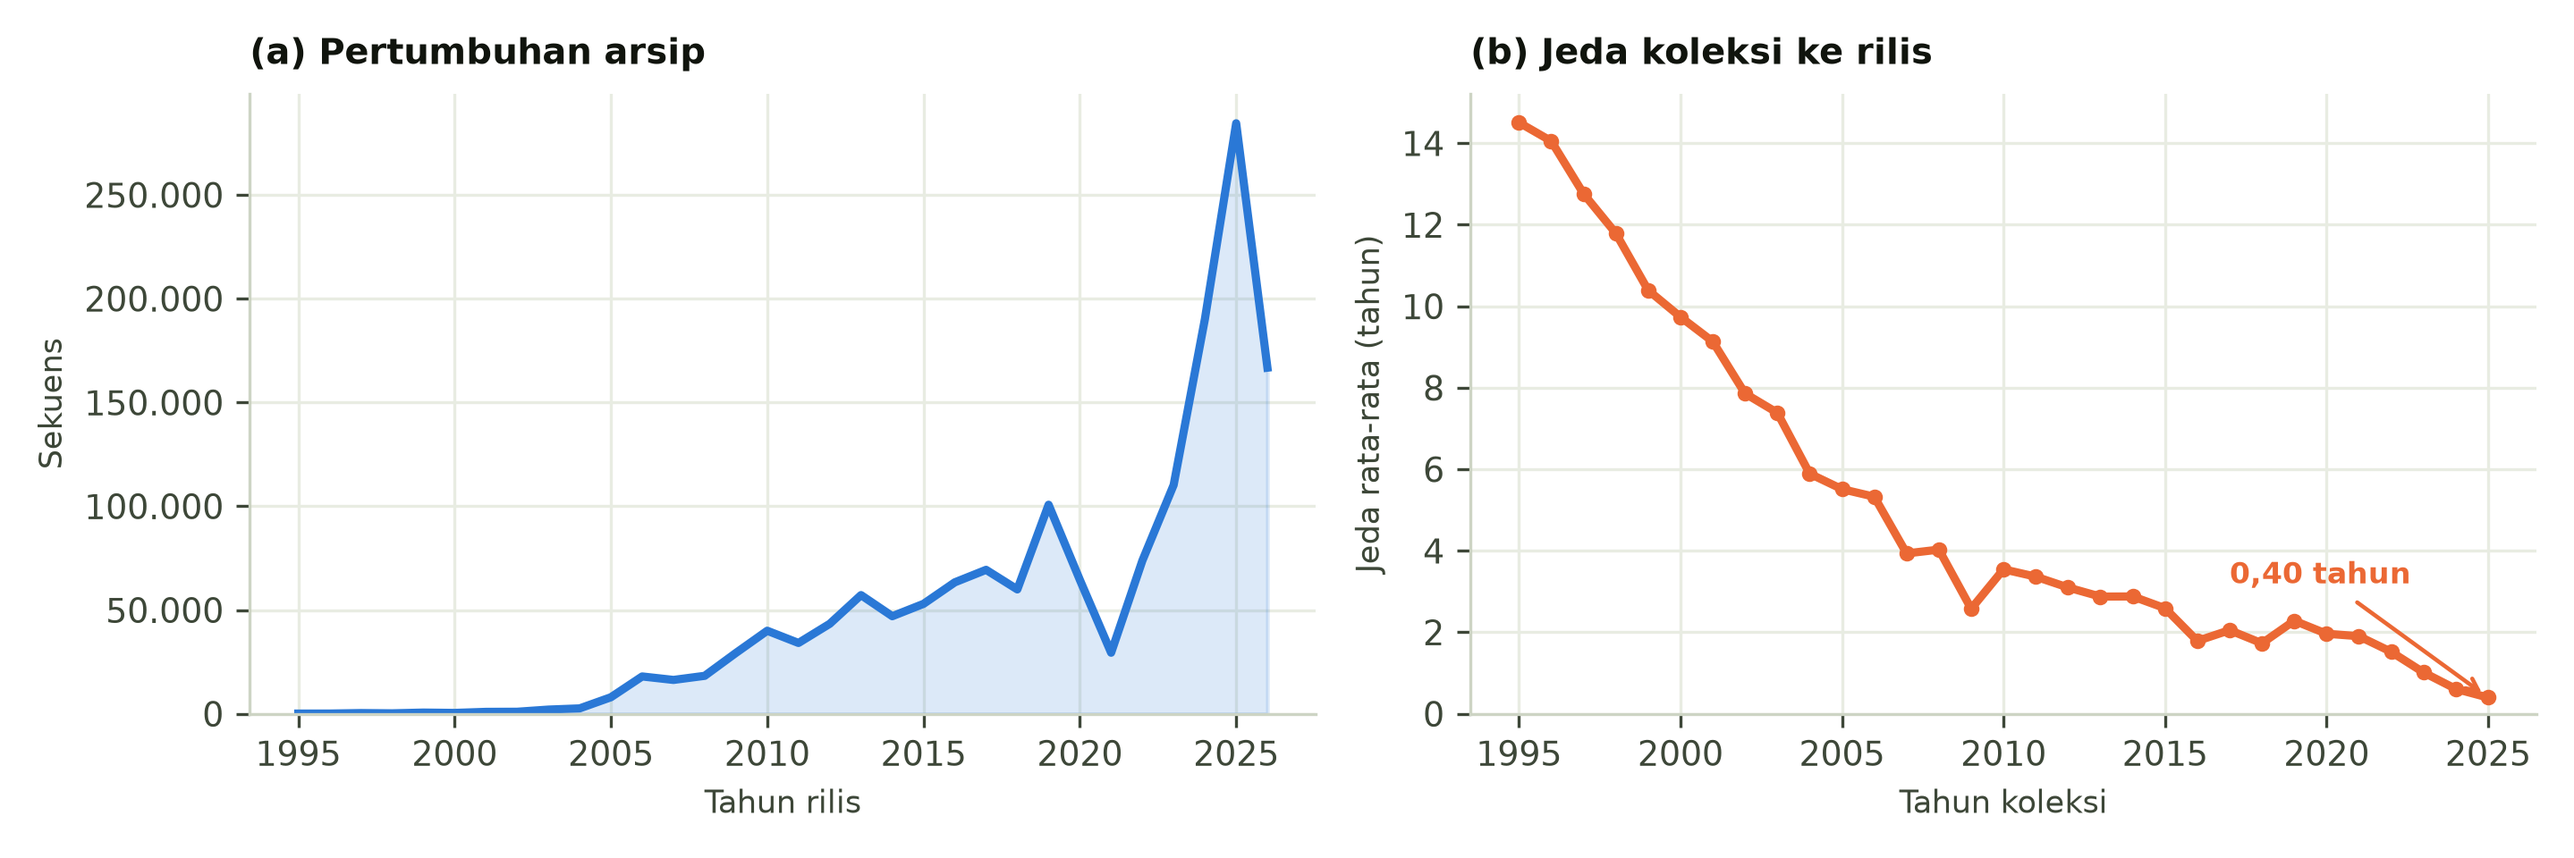
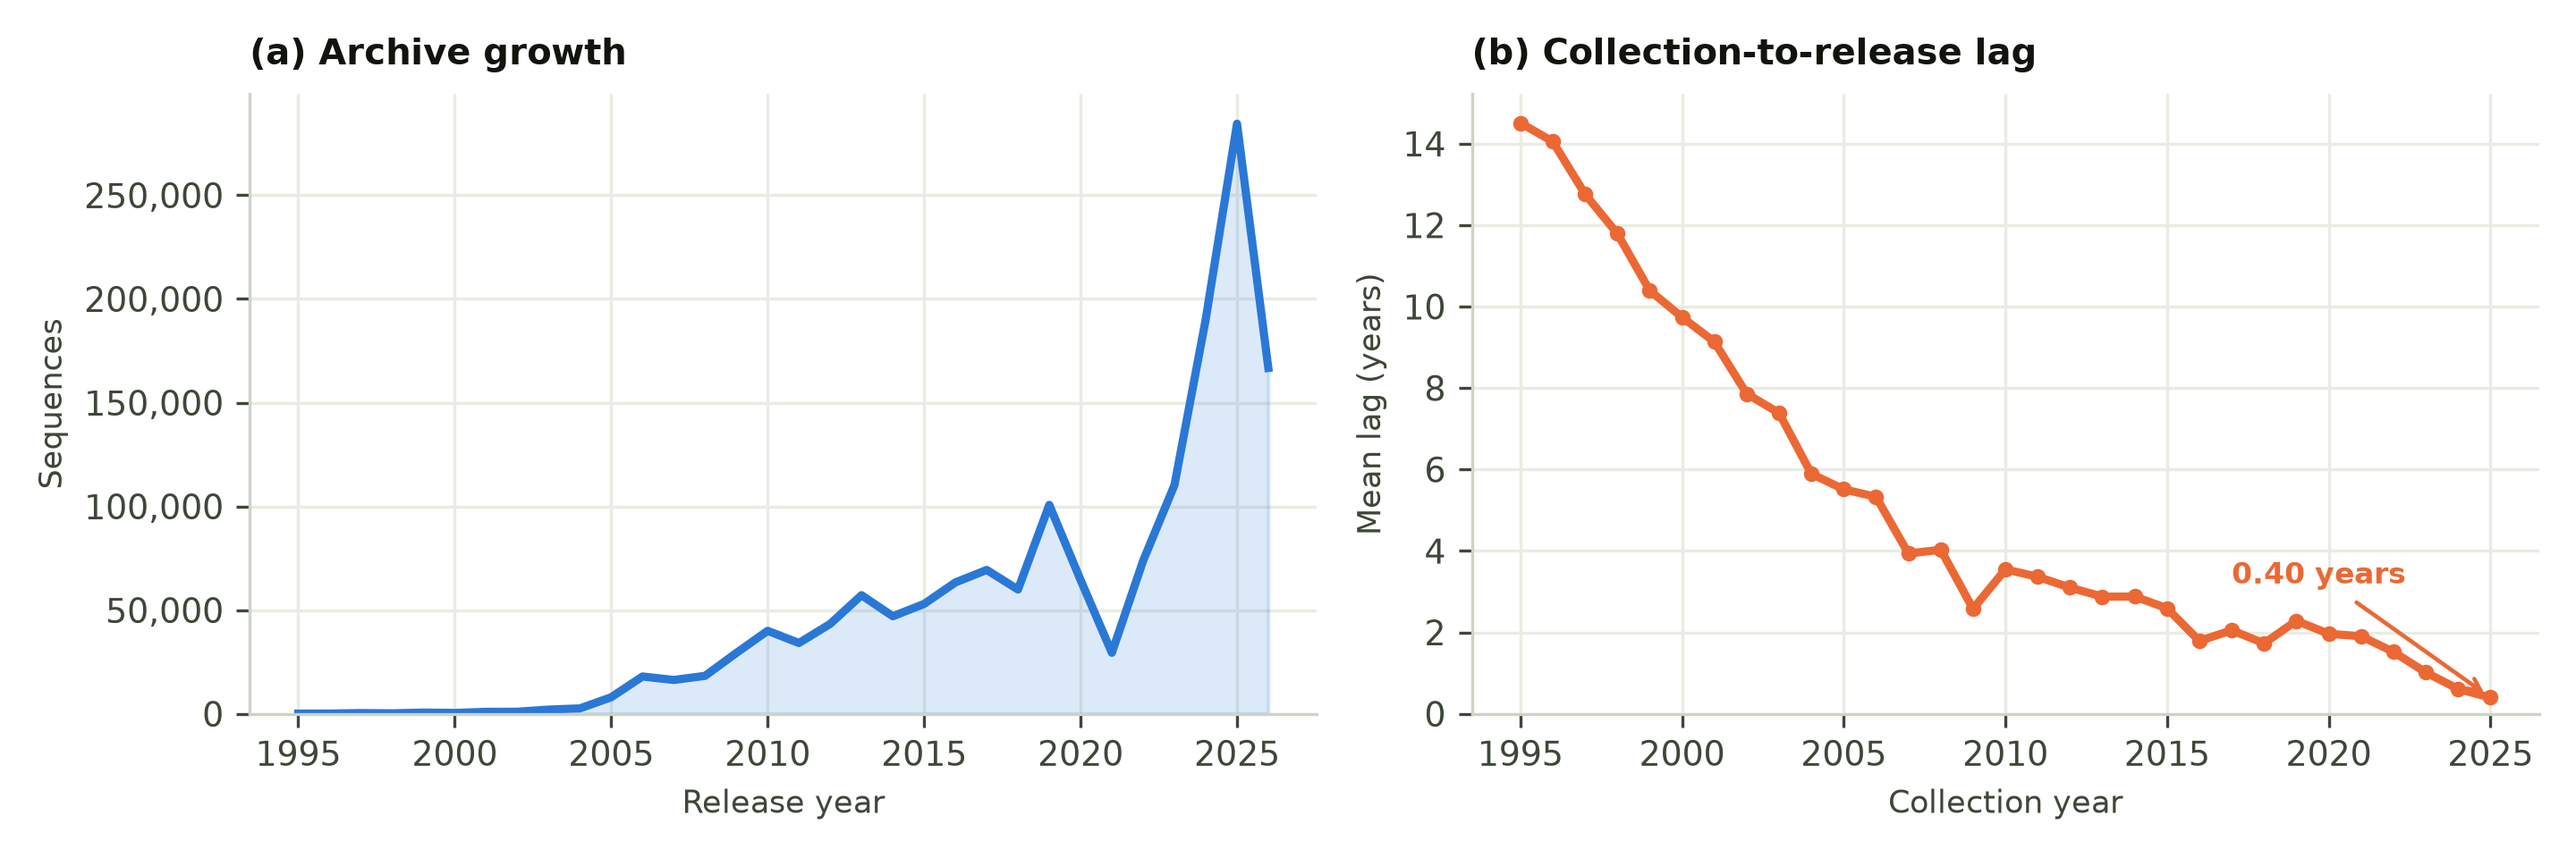
Seluruh teks gambar dialihkan ke bahasa Inggris
Label, judul panel, legenda, dan anotasi pada keenam gambar kini berbahasa
Inggris, termasuk format angka: pemisah ribuan koma dan desimal titik. Simbol
tipografi yang benar dipakai, yaitu tanda lebih besar sama dengan, tidak sama
dengan, panah, dan tanda kali.

Paragraf naskah tetap berbahasa Indonesia; hanya gambar, tabel, dan captionnya
yang berbahasa Inggris, sesuai ketentuan jurnal tujuan.

diff --git a/naskah/buat_gambar_hasil.py b/naskah/buat_gambar_hasil.py
@@ -67,7 +67,7 @@ def rapi(ax, xl=None, yl=None, jdl=None):
 
 
 def ribu(v, p=None):
-    return format(int(round(v)), ",").replace(",", ".")
+    return format(int(round(v)), ",")
 
 
 def simpan(fig, nama, ket):
@@ -87,21 +87,21 @@ ax[0].fill_between([a for a, _ in r], [b for _, b in r], color=D1, alpha=.16)
 ax[0].plot([a for a, _ in r], [b for _, b in r], color=D1, linewidth=2.2)
 ax[0].yaxis.set_major_formatter(FuncFormatter(ribu))
 ax[0].set_ylim(bottom=0)
-rapi(ax[0], "Tahun rilis", "Sekuens", "(a) Pertumbuhan arsip")
+rapi(ax[0], "Release year", "Sequences", "(a) Archive growth")
 
 j = [(x["tahun_koleksi"], float(x["rata"])) for x in INS["jeda_per_tahun"]
      if 1995 <= x["tahun_koleksi"] <= 2025]
 ax[1].plot([a for a, _ in j], [b for _, b in j], color=D2, linewidth=2.2,
            marker="o", markersize=3.2)
-ax[1].annotate("0,40 tahun", xy=(2025, j[-1][1]), xytext=(2017, 3.2),
+ax[1].annotate("0.40 years", xy=(2025, j[-1][1]), xytext=(2017, 3.2),
                fontsize=8, color=D2, fontweight="bold",
                arrowprops=dict(arrowstyle="->", color=D2, lw=1.1))
 ax[1].set_ylim(bottom=0)
-rapi(ax[1], "Tahun koleksi", "Jeda rata-rata (tahun)",
-     "(b) Jeda koleksi ke rilis")
+rapi(ax[1], "Collection year", "Mean lag (years)",
+     "(b) Collection-to-release lag")
 fig.tight_layout()
 simpan(fig, "gambar2-arsip.png",
-       "Pertumbuhan arsip dan penyusutan jeda pelaporan")
+       "Archive growth and shrinking reporting lag")
 
 # ── Gambar 3: kinerja klasifikasi ────────────────────────────────────
 tugas, algo = [], []
@@ -130,14 +130,14 @@ for i, a in enumerate(algo):
 for i, a in enumerate(algo):
     for k, t in enumerate(tugas):
         v = ambil(t, a, "f1_makro")
-        ax[0].text(k + (i - 1) * w, v + .02, ("%.4f" % v).replace(".", ","),
+        ax[0].text(k + (i - 1) * w, v + .02, "%.4f" % v,
                    ha="center", fontsize=6.2, color=TINTA_2, rotation=90)
 ax[0].set_xticks(xs)
 ax[0].set_xticklabels([NAMA_T[t] for t in tugas])
 ax[0].set_ylim(0, 1.16)
 ax[0].grid(axis="x", visible=False)
 ax[0].legend(fontsize=7.6, ncol=1, loc="lower left")
-rapi(ax[0], None, "F1 makro", "(a) F1 makro per tugas dan algoritma")
+rapi(ax[0], None, "Macro F1", "(a) Macro F1 by task and algorithm")
 
 for i, a in enumerate(algo):
     ax[1].bar(xs + (i - 1) * w, [ambil(t, a, "log_loss") for t in tugas],
@@ -146,9 +146,9 @@ for k, t in enumerate(tugas):
     acak = ambil(t, algo[0], "log_loss_acak")
     ax[1].plot([k - .45, k + .45], [acak, acak], color=D8, linewidth=1.6,
                linestyle=(0, (4, 2)), zorder=5)
-ax[1].text(-0.42, 2.45, "tebakan acak", fontsize=7.4, color=D8,
+ax[1].text(-0.42, 2.45, "random guess", fontsize=7.4, color=D8,
            fontweight="bold", ha="left", va="bottom")
-ax[1].annotate("Naive Bayes B2\nmelebihi acak", xy=(2 + w, 3.3654),
+ax[1].annotate("Naive Bayes B2\nexceeds random", xy=(2 + w, 3.3654),
                xytext=(1.08, 7.4), fontsize=7.4, color=D8,
                fontweight="bold", ha="center",
                arrowprops=dict(arrowstyle="->", color=D8, lw=1.1,
@@ -158,10 +158,10 @@ ax[1].set_xticklabels([NAMA_T[t] for t in tugas])
 ax[1].set_ylim(0.0008, 14)
 ax[1].set_yscale("log")
 ax[1].grid(axis="x", visible=False)
-rapi(ax[1], None, "Log loss (skala log)", "(b) Log loss terhadap tebakan acak")
+rapi(ax[1], None, "Log loss (log scale)", "(b) Log loss against random guessing")
 fig.tight_layout()
 simpan(fig, "gambar3-klasifikasi.png",
-       "F1 makro dan log loss sembilan model")
+       "Macro F1 and log loss of nine models")
 
 # ── Gambar 4: penskalaan ─────────────────────────────────────────────
 sp = [x for x in SKALA if x["jalur"].startswith("Spark")]
@@ -174,37 +174,37 @@ fig, ax = plt.subplots(1, 2, figsize=(9.6, 3.3))
 ax[0].plot(baris, [float(x["detik"]) for x in sp], marker="o", color=D1,
            linewidth=2.2, label="Spark ML")
 ax[0].plot(sk_b, [float(x["detik"]) for x in sk if x["detik"]], marker="o",
-           color=D2, linewidth=2.2, label="Satu node")
+           color=D2, linewidth=2.2, label="Single node")
 for g in gagal:
     ax[0].plot(g, 18, marker="X", markersize=9, color=D8, zorder=6,
                clip_on=False)
-ax[0].annotate("gagal: Py4JJavaError", xy=(gagal[0], 18),
+ax[0].annotate("failed: Py4JJavaError", xy=(gagal[0], 18),
                xytext=(gagal[0] * .62, 300), fontsize=7.8, color=D8,
                fontweight="bold",
                arrowprops=dict(arrowstyle="->", color=D8, lw=1.1))
 ax[0].set_xscale("log")
 ax[0].set_ylim(bottom=0)
 ax[0].legend(fontsize=8)
-rapi(ax[0], "Baris latih", "Waktu latih (detik)", "(a) Waktu terhadap volume")
+rapi(ax[0], "Training rows", "Training time (s)", "(a) Time against volume")
 
 ax[1].plot(baris, [float(x["throughput_baris_per_detik"]) for x in sp],
            marker="o", color=D1, linewidth=2.2, label="Spark ML")
 ax[1].plot(sk_b, [float(x["throughput_baris_per_detik"]) for x in sk
                   if x["throughput_baris_per_detik"]], marker="o", color=D2,
-           linewidth=2.2, label="Satu node")
-ax[1].annotate("naik 15×", xy=(baris[-1], 1439), xytext=(60000, 1180),
+           linewidth=2.2, label="Single node")
+ax[1].annotate("15× increase", xy=(baris[-1], 1439), xytext=(60000, 1180),
                fontsize=8, color=D1, fontweight="bold",
                arrowprops=dict(arrowstyle="->", color=D1, lw=1.1))
-ax[1].annotate("turun", xy=(sk_b[-1], 169), xytext=(60000, 330),
+ax[1].annotate("decreasing", xy=(sk_b[-1], 169), xytext=(60000, 330),
                fontsize=8, color=D2, fontweight="bold",
                arrowprops=dict(arrowstyle="->", color=D2, lw=1.1))
 ax[1].set_xscale("log")
 ax[1].set_ylim(bottom=0)
 ax[1].yaxis.set_major_formatter(FuncFormatter(ribu))
-rapi(ax[1], "Baris latih", "Baris per detik", "(b) Throughput")
+rapi(ax[1], "Training rows", "Rows per second", "(b) Throughput")
 fig.tight_layout()
 simpan(fig, "gambar4-penskalaan.png",
-       "Waktu latih dan throughput terhadap volume data")
+       "Training time and throughput against data volume")
 
 # ── Gambar 5: struktur graf ──────────────────────────────────────────
 gs = sorted(INS["graf_per_segmen"], key=lambda x: x["segmen"])
@@ -224,11 +224,11 @@ ax[0].set_xticklabels(lab, fontsize=8)
 ax[0].set_ylim(0, max(nilai) * 1.2)
 ax[0].yaxis.set_major_formatter(FuncFormatter(ribu))
 ax[0].grid(axis="x", visible=False)
-ax[0].annotate("HA paling renggang:\nsasaran utama antibodi", xy=(3, 21800),
+ax[0].annotate("HA sparsest:\nprimary antibody target", xy=(3, 21800),
                xytext=(3.05, 40000), fontsize=7.4, color=TINTA,
                fontweight="bold", ha="center",
                arrowprops=dict(arrowstyle="->", color=TINTA, lw=1.1))
-rapi(ax[0], None, "Tepi kemiripan", "(a) Kerapatan graf per segmen")
+rapi(ax[0], None, "Similarity edges", "(a) Graph density by segment")
 
 uk = INS["klaster_ukuran"]
 urut = ["2 - 5", "6 - 20", "21 - 100", "> 100"]
@@ -242,27 +242,27 @@ ax[1].set_xticks(range(4))
 ax[1].set_xticklabels(nama2, fontsize=8)
 ax[1].set_ylim(0, max(nilai2) * 1.18)
 ax[1].grid(axis="x", visible=False)
-rapi(ax[1], "Simpul per klaster", "Jumlah klaster",
-     "(b) Sebaran ukuran klaster")
+rapi(ax[1], "Nodes per cluster", "Number of clusters",
+     "(b) Cluster size distribution")
 fig.tight_layout()
 simpan(fig, "gambar5-graf.png",
-       "Kerapatan graf per segmen dan sebaran ukuran klaster")
+       "Graph density by segment and cluster size distribution")
 
 # ── Gambar 6: pengayaan inang dan forest plot ────────────────────────
-NAMA_I = {"babi": "Babi", "unggas": "Unggas", "manusia": "Manusia",
-          "lain": "Lainnya"}
+NAMA_I = {"babi": "Swine", "unggas": "Avian", "manusia": "Human",
+          "lain": "Other"}
 ks = [x for x in STRAT["kasar"] if x["kelas_inang"] in NAMA_I]
 ks.sort(key=lambda x: -x["pengayaan"])
 
 fig, ax = plt.subplots(1, 2, figsize=(9.6, 3.5))
 xs = np.arange(len(ks))
 ax[0].bar(xs - .19, [x["pangsa_pop"] for x in ks], width=.36, color=D1,
-          label="Pangsa populasi terskor")
+          label="Share of scored population")
 ax[0].bar(xs + .19, [x["pangsa_kand"] for x in ks], width=.36, color=D8,
-          label="Pangsa kandidat")
+          label="Share of candidates")
 for i, x in enumerate(ks):
     ax[0].text(i, max(x["pangsa_pop"], x["pangsa_kand"]) + 3.4,
-               ("%.2f×" % x["pengayaan"]).replace(".", ","),
+               "%.2f×" % x["pengayaan"],
                ha="center", fontsize=8.4, color=TINTA, fontweight="bold")
 ax[0].set_xticks(xs)
 ax[0].set_xticklabels([NAMA_I[x["kelas_inang"]] for x in ks], fontsize=8.6)
@@ -271,7 +271,7 @@ ax[0].yaxis.set_major_formatter(FuncFormatter(lambda v, p: "%d%%" % v))
 ax[0].grid(axis="x", visible=False)
 ax[0].legend(fontsize=7.8, loc="upper center", ncol=2,
              bbox_to_anchor=(.5, 1.02))
-rapi(ax[0], None, "Pangsa", "(a) Pengayaan kandidat menurut inang")
+rapi(ax[0], None, "Share", "(a) Candidate enrichment by host")
 
 st = [s for s in STRAT["per_strata"] if s["or_strata"] and
       0 < float(s["or_strata"]) < 400]
@@ -290,22 +290,22 @@ ax[1].set_yticklabels(["%s %s" % (s["wil"], int(s["dekade"])) for s in st],
 ax[1].set_xscale("log")
 ax[1].set_xlim(.4, 400)
 ax[1].grid(axis="y", visible=False)
-ax[1].text(.02, .97, "OR Mantel-Haenszel gabungan\n10,86  (IK 95% 9,69–12,17)",
+ax[1].text(.02, .97, "Pooled Mantel–Haenszel OR\n10.86  (95% CI 9.69–12.17)",
            transform=ax[1].transAxes, fontsize=7.4, color=D8,
            fontweight="bold", va="top", ha="left",
            bbox=dict(boxstyle="round,pad=0.3", facecolor=PUTIH,
                      edgecolor="none", alpha=.92))
 ax[1].text(1.08, .2, "OR = 1", fontsize=7, color=TINTA_3, ha="left")
-rapi(ax[1], "Odds ratio per strata (skala log)", None,
-     "(b) Pengendalian konfonder, %d dari %d strata"
+rapi(ax[1], "Odds ratio per stratum (log scale)", None,
+     "(b) Confounder control, %d of %d strata"
      % (len(st), cmh["strata"]))
 fig.tight_layout()
 simpan(fig, "gambar6-pengayaan.png",
-       "Pengayaan inang dan odds ratio per strata")
+       "Host enrichment and per-stratum odds ratios")
 
 io.open(KELUARAN / "DAFTAR-GAMBAR.txt", "w", encoding="utf-8").write(
-    "Gambar untuk naskah artikel\n" + "=" * 52 + "\n\n"
-    + "Gambar 1  gambar1-metodologi.png   Alur metodologi delapan tahap\n"
-    + "".join("Gambar %d  %-26s %s\n" % (i + 2, n, k)
+    "Figures for the manuscript\n" + "=" * 52 + "\n\n"
+    + "Figure 1  gambar1-metodologi.png   Eight-stage methodology flow\n"
+    + "".join("Figure %d  %-26s %s\n" % (i + 2, n, k)
              for i, (n, k) in enumerate(dibuat)))
-print("\n%d gambar hasil ditulis ke %s" % (len(dibuat), KELUARAN))
+print("\n%d result figures written to %s" % (len(dibuat), KELUARAN))

diff --git a/naskah/buat_gambar_metodologi.py b/naskah/buat_gambar_metodologi.py
@@ -107,17 +107,17 @@ def gambar():
     kotak(ax, PITA_X, 20, PITA_W, 770, isi=TANAH, tepi=GARIS,
           putus=(4, 3))
     rel = [
-        ("HDFS", ["3 datanode", "replikasi 2", "blok 128 MB"], BIRU),
-        ("YARN", ["1 RM + 3 NM", "12 vCore", "18.432 MB"], JINGGA),
+        ("HDFS", ["3 datanodes", "replication 2", "128 MB blocks"], BIRU),
+        ("YARN", ["1 RM + 3 NM", "12 vCores", "18,432 MB"], JINGGA),
         ("Spark 3.5.9", ["DataFrame API", "Spark ML", "MinHash LSH"], UNGU),
-        ("MapReduce", ["Hadoop Streaming", "mapper awk"], HIJAU),
+        ("MapReduce", ["Hadoop Streaming", "awk mapper"], HIJAU),
         ("Neo4j 5.26", ["property graph", "Cypher + GDS"], AMBER),
     ]
     bx, bw = PITA_X + 8, PITA_W - 16
     tinggi = [22 + len(b) * 11 for _, b, _w in rel]
     total = sum(tinggi) + 14 * (len(rel) - 1) + 34
     ty = 20 + (770 - total) / 2
-    teks(ax, bx + bw / 2, ty, "INFRASTRUKTUR", 7.4, AKSEN, "bold",
+    teks(ax, bx + bw / 2, ty, "INFRASTRUCTURE", 7.4, AKSEN, "bold",
          rata="center", muat=bw)
     ty += 16
     for (nama, baris, warna), t in zip(rel, tinggi):
@@ -141,41 +141,41 @@ def gambar():
     kotak(ax, L, y, R - L, h, isi=BIRU_BG, tepi=BIRU, tebal=1.2)
     kotak(ax, L, y, 30, h, isi=BIRU, tepi=BIRU)
     teks(ax, L + 15, y + h / 2 + 5, "1", 13, PUTIH, "bold", rata="center")
-    teks(ax, L + 46, y + 22, "Penarikan data", 12, TINTA, "bold")
-    teks(ax, R - 14, y + 22, "42 partisi · idempoten · gabung "
-         "menurut nomor aksesi", 8.5, TINTA_3, font=FM, rata="right")
+    teks(ax, L + 46, y + 22, "Data retrieval", 12, TINTA, "bold")
+    teks(ax, R - 14, y + 22, "42 partitions · idempotent · "
+         "joined on accession number", 8.5, TINTA_3, font=FM, rata="right")
     for dx, judul, ket in [
-            (0, "Jalur A — NCBI E-utilities",
+            (0, "Path A — NCBI E-utilities",
              "esearch + efetch · FASTA"),
-            (376, "Jalur B — NCBI Virus vvsearch2",
-             "metadata CSV · 12 kolom")]:
+            (376, "Path B — NCBI Virus vvsearch2",
+             "metadata CSV · 12 columns")]:
         kotak(ax, L + 46 + dx, y + 32, 352, 46, isi=PUTIH, tepi=BIRU)
         teks(ax, L + 60 + dx, y + 51, judul, 9, TINTA, "bold", muat=324)
         teks(ax, L + 60 + dx, y + 68, ket, 8, TINTA_3, font=FM, muat=324)
-    aliran(y + h, y + h + 34, "1.627.536 sekuens")
+    aliran(y + h, y + h + 34, "1,627,536 sequences")
 
     # ── 2. zona bronze ────────────────────────────────────────────────
     y = 146
-    tahap(ax, "2", "Zona bronze — HDFS", y, 48,
-          ["hasil unduh apa adanya, tidak pernah diubah · sumber "
-           "kebenaran untuk pengulangan"], rona=BIRU, isi=BIRU_BG)
+    tahap(ax, "2", "Bronze zone — HDFS", y, 48,
+          ["raw downloads, never modified · source of truth for "
+           "re-running the pipeline"], rona=BIRU, isi=BIRU_BG)
     aliran(y + 48, y + 48 + 26)
 
     # ── 3. gerbang mutu ───────────────────────────────────────────────
     y = 220
-    tahap(ax, "3", "Gerbang mutu dan deduplikasi", y, 76,
-          ["panjang ≥ 500 bp (gugur 36.388) · panjang ≤ "
-           "2.600 bp (gugur 49)",
-           "basa ambigu ≤ 5% (gugur 4.187) · deduplikasi cetakan "
-           "SHA-1"], rona=JINGGA, isi=JINGGA_BG)
+    tahap(ax, "3", "Quality gate and deduplication", y, 76,
+          ["length ≥ 500 bp (36,388 dropped) · length ≤ "
+           "2,600 bp (49 dropped)",
+           "ambiguous bases ≤ 5% (4,187 dropped) · SHA-1 "
+           "deduplication"], rona=JINGGA, isi=JINGGA_BG)
     aliran(y + 76, y + 76 + 34,
-           "1.586.912 lolos · 893.599 wakil unik")
+           "1,586,912 passed · 893,599 unique representatives")
 
     # ── 4. zona silver ────────────────────────────────────────────────
     y = 330
-    tahap(ax, "4", "Zona silver — Parquet berpartisi segmen", y, 48,
-          ["kolom asal + kolom turunan: hash, cacah duplikat, asal label, "
-           "presisi tanggal"], rona=BIRU, isi=BIRU_BG)
+    tahap(ax, "4", "Silver zone — Parquet partitioned by segment", y, 48,
+          ["source columns + derived: hash, duplicate count, label "
+           "provenance, date precision"], rona=BIRU, isi=BIRU_BG)
     aliran(y + 48, y + 48 + 26)
 
     # ── 5. rekayasa fitur ─────────────────────────────────────────────
@@ -183,7 +183,7 @@ def gambar():
     kotak(ax, L, y, R - L, h, isi=UNGU_BG, tepi=UNGU, tebal=1.6)
     kotak(ax, L, y, 30, h, isi=UNGU, tepi=UNGU)
     teks(ax, L + 15, y + h / 2 + 5, "5", 13, PUTIH, "bold", rata="center")
-    teks(ax, L + 46, y + 22, "Rekayasa fitur alignment-free", 12, TINTA,
+    teks(ax, L + 46, y + 22, "Alignment-free feature engineering", 12, TINTA,
          "bold")
     pipa = ["k-mer, k = 8", "CountVectorizer", "IDF", "Normalizer L2"]
     px, pw = L + 46, 160
@@ -194,8 +194,8 @@ def gambar():
         if i < len(pipa) - 1:
             panah(ax, px + pw + 3, y + 47, px + pw + 20, y + 47, UNGU, 1.4)
         px += pw + 23
-    teks(ax, L + 46, y + 78, "SparseVector 65.536 dimensi · 56.171 "
-         "k-mer teramati · kepadatan 2,49% · 38,7 GB pada HDFS",
+    teks(ax, L + 46, y + 78, "SparseVector, 65,536 dimensions · 56,171 "
+         "k-mers observed · 2.49% density · 38.7 GB on HDFS",
          8.5, TINTA_2, font=FM, muat=R - L - 60)
 
     # percabangan ke 6a dan 6b
@@ -209,18 +209,18 @@ def gambar():
     # ── 6a dan 6b ─────────────────────────────────────────────────────
     y, h = 522, 102
     for x0, no, rona, latar, judul, baris in [
-        (L, "6a", HIJAU, HIJAU_BG, "Klasifikasi", [
-            "Tugas A  segmen, 8 kelas",
-            "Tugas B1 subtipe dari HA + NA, 21 kelas",
-            "Tugas B2 subtipe dari segmen internal",
+        (L, "6a", HIJAU, HIJAU_BG, "Classification", [
+            "Task A  segment, 8 classes",
+            "Task B1 subtype from HA + NA, 21 classes",
+            "Task B2 subtype from internal segments",
             "LogReg · RandomForest · NaiveBayes",
-            "pembagian latih-uji menurut isolat"]),
-        (R - 370, "6b", AMBER, AMBER_BG, "Graf kemiripan", [
-            "MinHash LSH · ambang Jaccard 0,12",
-            "sampel ≤ 2.500 simpul per segmen",
-            "label propagation → komponen terhubung",
-            "PageRank → sentralitas klaster",
-            "358.212 tepi · delapan segmen"])]:
+            "train-test split by isolate"]),
+        (R - 370, "6b", AMBER, AMBER_BG, "Similarity graph", [
+            "MinHash LSH · Jaccard threshold 0.12",
+            "sample ≤ 2,500 nodes per segment",
+            "label propagation → connected components",
+            "PageRank → cluster centrality",
+            "358,212 edges · eight segments"])]:
         kotak(ax, x0, y, 370, h, isi=latar, tepi=rona, tebal=1.2)
         kotak(ax, x0, y, 30, h, isi=rona, tepi=rona)
         teks(ax, x0 + 15, y + h / 2 + 4, no, 10.5, PUTIH, "bold",
@@ -238,21 +238,21 @@ def gambar():
 
     # ── 7. penapisan ──────────────────────────────────────────────────
     y = 656
-    tahap(ax, "7", "Penapisan kandidat reassortment", y, 60,
-          ["subtipe terprediksi ≠ subtipe tercatat, pada keyakinan "
-           "tinggi",
-           "→ 1.990 kandidat dari 1.238 galur, keyakinan rata-rata "
-           "0,909"],
+    tahap(ax, "7", "Reassortment candidate screening", y, 60,
+          ["predicted subtype ≠ recorded subtype, at high "
+           "confidence",
+           "→ 1,990 candidates across 1,238 strains, mean "
+           "confidence 0.909"],
           rona=MERAH, isi=MERAH_BG, tebal=1.6)
     panah(ax, TENGAH, y + 60, TENGAH, y + 60 + 14)
 
     # ── 8. validasi ───────────────────────────────────────────────────
     y = 730
-    tahap(ax, "8", "Validasi independen", y, 60,
-          ["pengayaan inang — peubah yang tidak pernah menjadi fitur "
-           "model",
-           "OR Cochran-Mantel-Haenszel · 17 strata wilayah × "
-           "dekade"],
+    tahap(ax, "8", "Independent validation", y, 60,
+          ["host enrichment — a variable never used as a model "
+           "feature",
+           "Cochran–Mantel–Haenszel OR · 17 region × decade "
+           "strata"],
           rona=TOSCA, isi=TOSCA_BG, tebal=1.6)
 
     return fig
